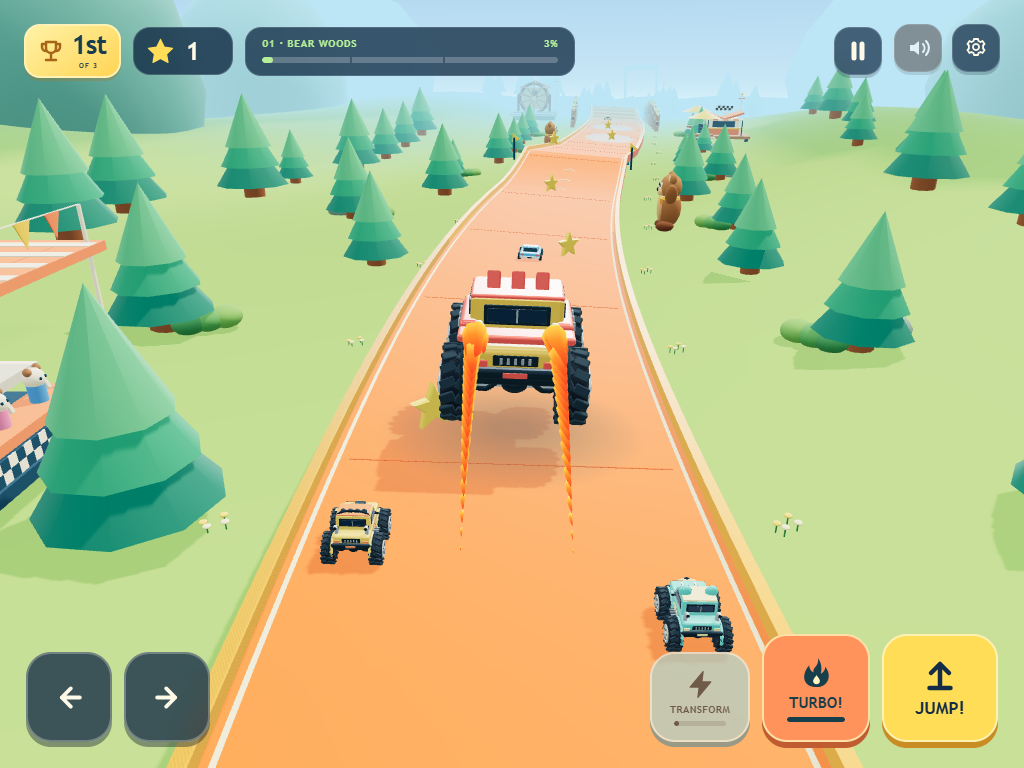
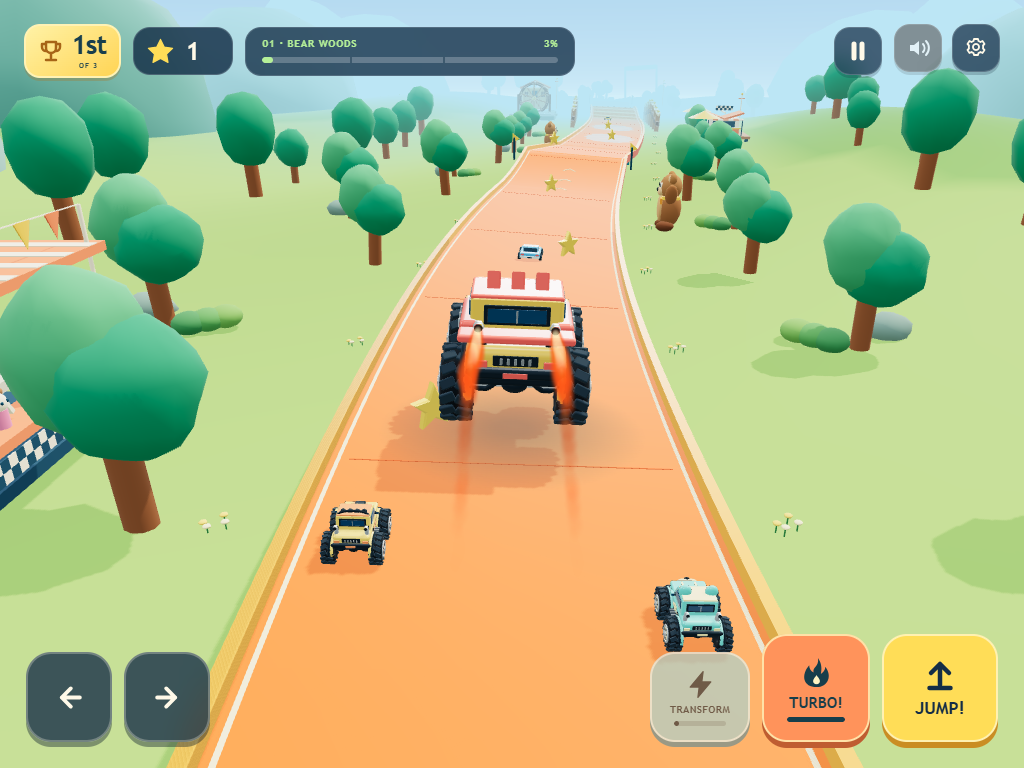
Record live smoother-world validation and refresh screenshots

diff --git a/docs/VALIDATION.md b/docs/VALIDATION.md
@@ -108,6 +108,12 @@ Independent rules review and a final independent code/visual review reported no 
 
 The final local production build passed all **six browser tests in Chrome (about 1.8 minutes) and WebKit (about 2.0 minutes)**. Both exercised the positive speed burst and flattened car, paused reward timer, later friendly challenge and manual turbo comeback, touch turbo/jump, correct steering in both tablet orientations, and a complete unattended race through every landmark, guardian, loop and rainy bay. First-place reward, earned-truck selection, persistent reload, clean replay, blocked storage, unavailable audio and gentler motion also passed. Neither suite recorded JavaScript, console, failed-request or HTTP resource errors.
 
+The [smoother world deployment](https://github.com/yanivalfasykeelusa/james-monster-skyway/actions/runs/34632816929) built and published runtime commit `21c3039` successfully. The public site serves the matching `index-Dbdk0O_j.js` and `index-L73CJAqG.css` assets and the six regenerated truck portraits.
+
+All **six browser tests passed against that public URL in Chrome (about 1.8 minutes) and WebKit (about 2.0 minutes)**. Both engines verified the rewarding crush, actual friendly overtake and turbo comeback, pause/resume, keyboard and touchscreen controls, a complete unattended first-place race, saved unlock and replay, and unavailable storage/audio. Neither public run recorded JavaScript, console, failed-request or HTTP resource errors.
+
+A separate public capture checked desktop 1440×900, tablet landscape 1024×768, tablet portrait 768×1024 and phone 390×844. All six garage portraits loaded, the garage had no horizontal overflow, and essential controls stayed inside each viewport without overlapping. All nine README screenshots now come from this public build. Collection and lobby captures use a prepared browser save to show the complete garage. Public crush, airborne Titan and loop captures were visually inspected; independent review also checked phone driving/garage and WebKit loop/falls views, with no material visual findings. Physical iPad/Safari performance and James's response to this update remain to be observed.
+
 ## Practical limits
 
 - Chrome and Playwright WebKit on a desktop with emulated touch are not a physical iPad or iPhone. Shipping Safari behavior, actual device frame pacing, battery use, and orientation changes still need a real-device pass.

diff --git a/README.md b/README.md
@@ -46,7 +46,7 @@ These are original models inspired by broad toy and vehicle interests. The game 
 
 ## Around the skyway
 
-![Rumbler using turbo to regain the lead after crushing a toy car](docs/screenshots/race.png)
+![Rumbler celebrating a flattened toy car with stars and a speed burst](docs/screenshots/race.png)
 
 Bear Woods climbs a timber bridge beside a giant waterwheel. Rocket Runway adds a launch pad, a tall toy rocket, and a boost toward the next ramp. Gator Falls brings a broad waterfall, reeds, and a waterfront boardwalk to the rainy lagoon. Picnic stops, balloons, friendly bears and alligators, stands, and the finish trophy garden fill out the route.
 
@@ -62,7 +62,7 @@ Steering turns the front wheels and leans the body. Left and right follow the ch
 
 Shallow mud patches send little flecks from the tires, and a short, gentle shower passes through Gator Bay. Mud and rain are visual effects: they never slow the truck, change steering, or make winning harder.
 
-Twin exhausts shoot bright flames and leave a fiery trail through jumps and loops. Bigger trucks bring bigger flames; guardian mode and turbo turn them up further. **Gentler motion** reduces camera movement, removes the landing ring, moving flame trail, rain, and tire spray, and keeps two small, steady exhaust flames and the mud scenery. Crushed cars show their flattened state immediately with this setting.
+Twin exhausts have pale hot cores, flowing amber flames and a soft cooling trail through jumps and loops. Bigger trucks bring bigger flames; guardian mode and turbo turn them up further. **Gentler motion** reduces camera movement, removes the landing ring, moving flame trail, rain, and tire spray, and keeps two small, steady exhaust flames and the mud scenery. Crushed cars show their flattened state immediately with this setting.
 
 ![Mega Titan airborne with twin exhaust flames and a fiery trail](docs/screenshots/flames.png)
 

diff --git a/.references/plans/2026-09-11-smoother-world.md b/.references/plans/2026-09-11-smoother-world.md
@@ -50,6 +50,10 @@ Root owns src/core.mjs, src/main.mjs, src/audio.mjs, src/scene.mjs if needed; te
 
 ## 5. Publish and document
 
-- [ ] Update README/design/roadmap/validation to describe the new positive-crush behavior and smoother art with actual evidence; commit/push on main.
-- [ ] Dispatch Pages, verify runtime head and asset hashes, run all public Chrome/WebKit tests and inspect public screenshots.
-- [ ] Refresh screenshots, record final review/deployment evidence, finish this checklist and push clean documentation. Report the playable result and real-device limit.
+- [x] Update README/design/roadmap/validation to describe the new positive-crush behavior and smoother art with actual evidence; commit/push on main.
+- [x] Dispatch Pages, verify runtime head and asset hashes, run all public Chrome/WebKit tests and inspect public screenshots.
+- [x] Refresh screenshots, record final review/deployment evidence, finish this checklist and push clean documentation. Report the playable result and real-device limit.
+
+## Release evidence
+
+Runtime `21c3039` was published by successful Pages run `34632816929`. Matching public assets: `index-Dbdk0O_j.js` and `index-L73CJAqG.css`. All 89 unit tests and the production build passed; all six browser tests passed in Chrome and WebKit against both local production and the public site. Controlled browser play, four public viewport layouts, resource/pause checks and independent code/visual reviews are recorded in `docs/VALIDATION.md`. All nine README screenshots show the published build. Physical iPad/Safari performance remains unverified.
